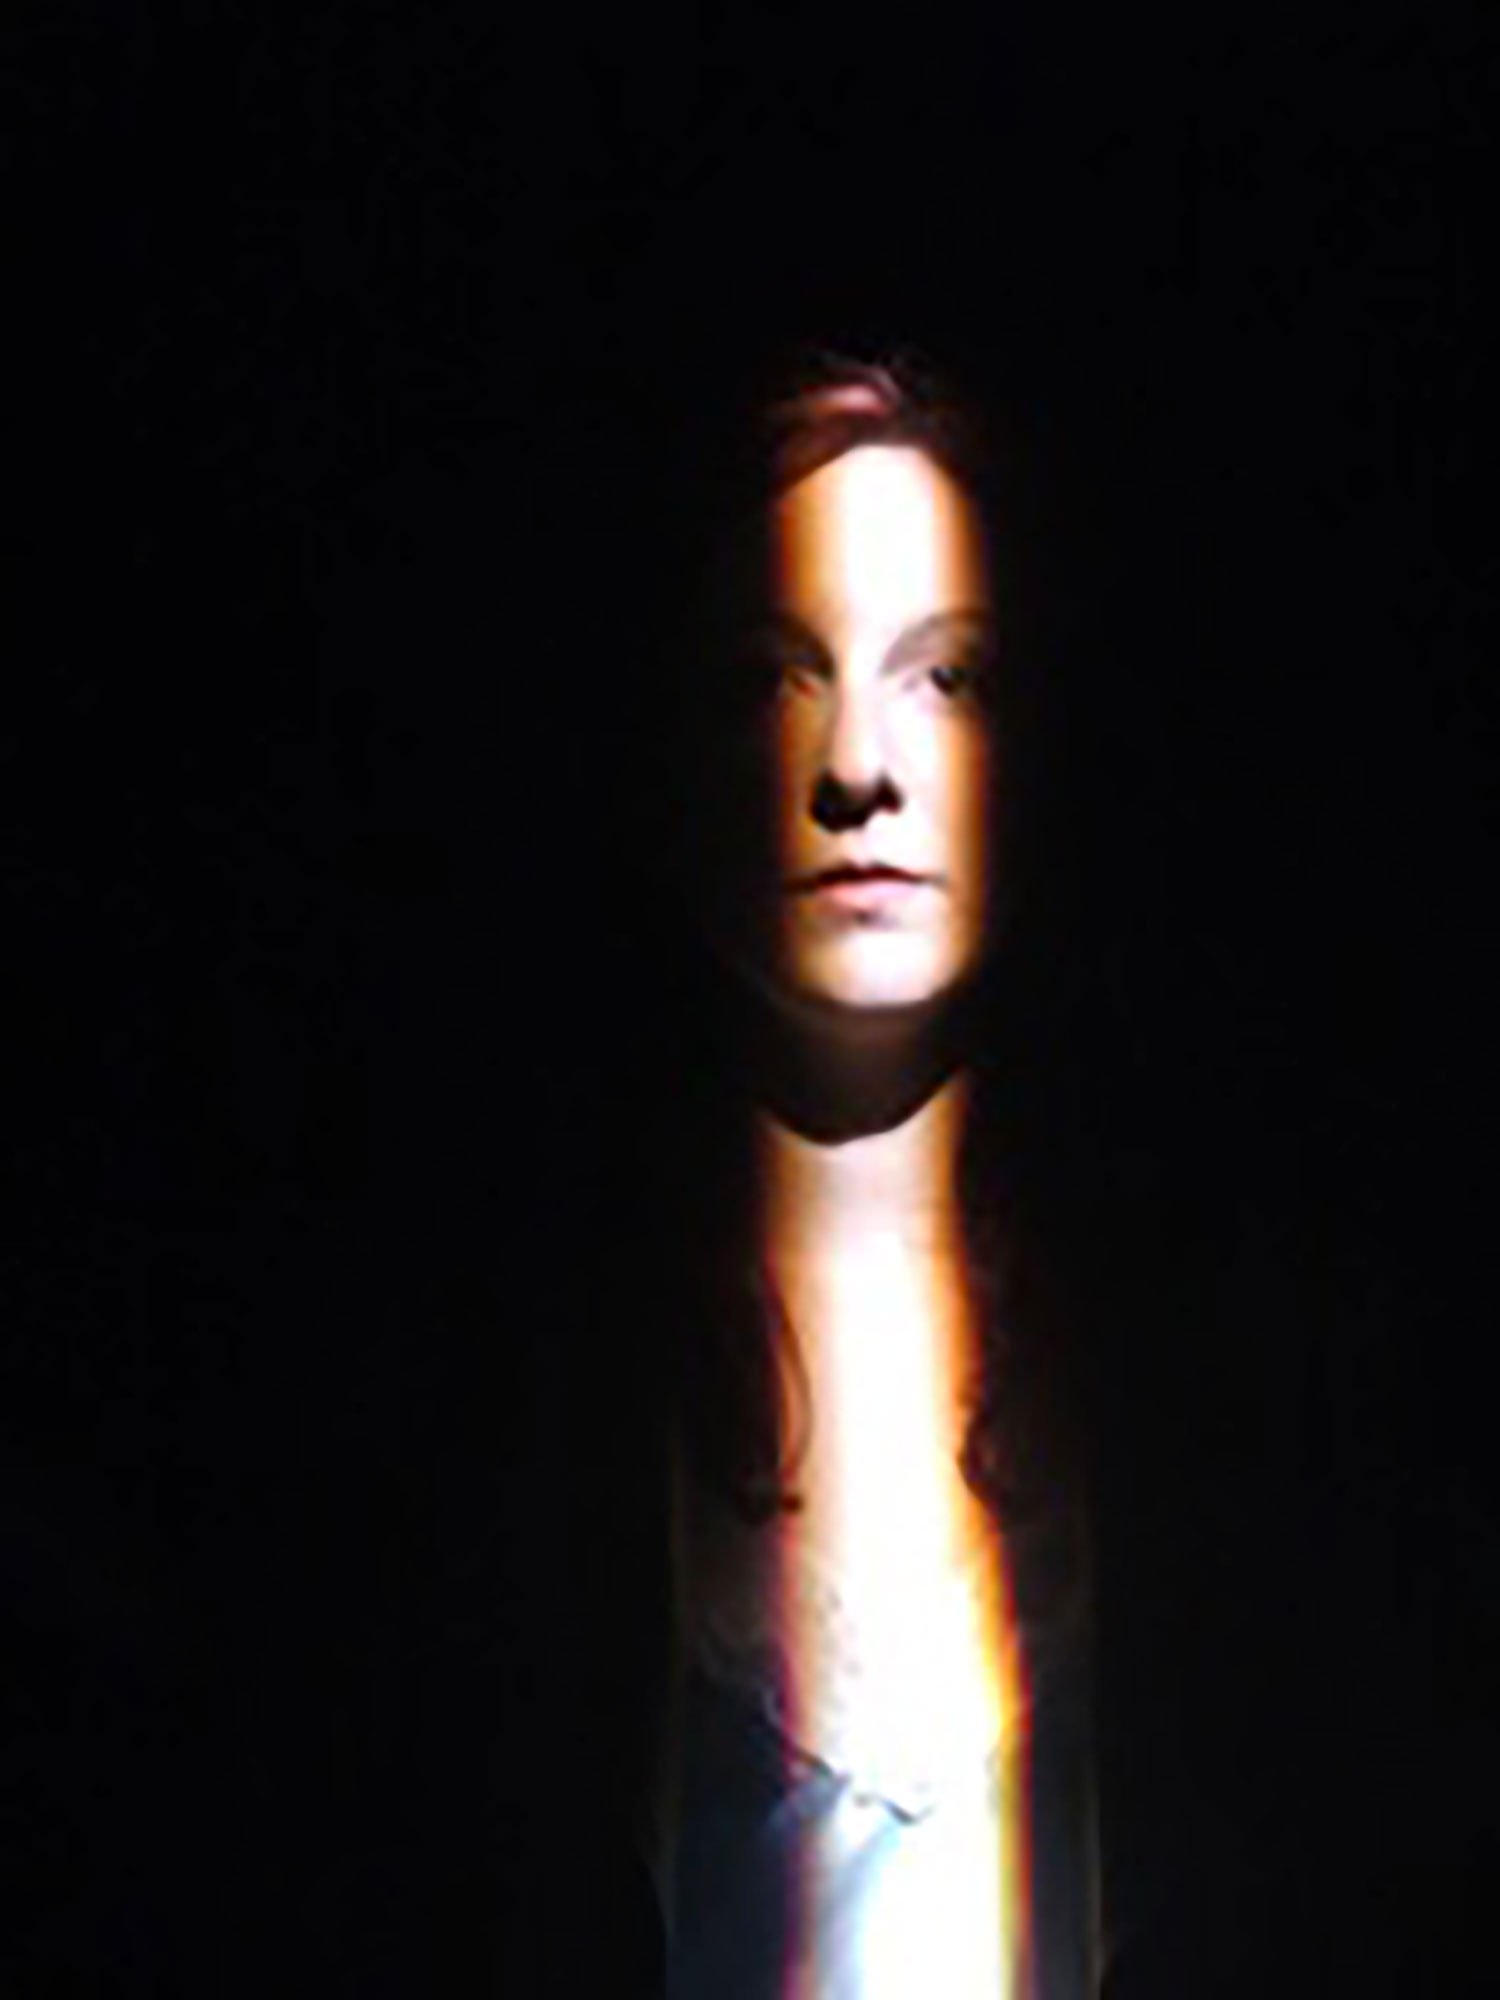
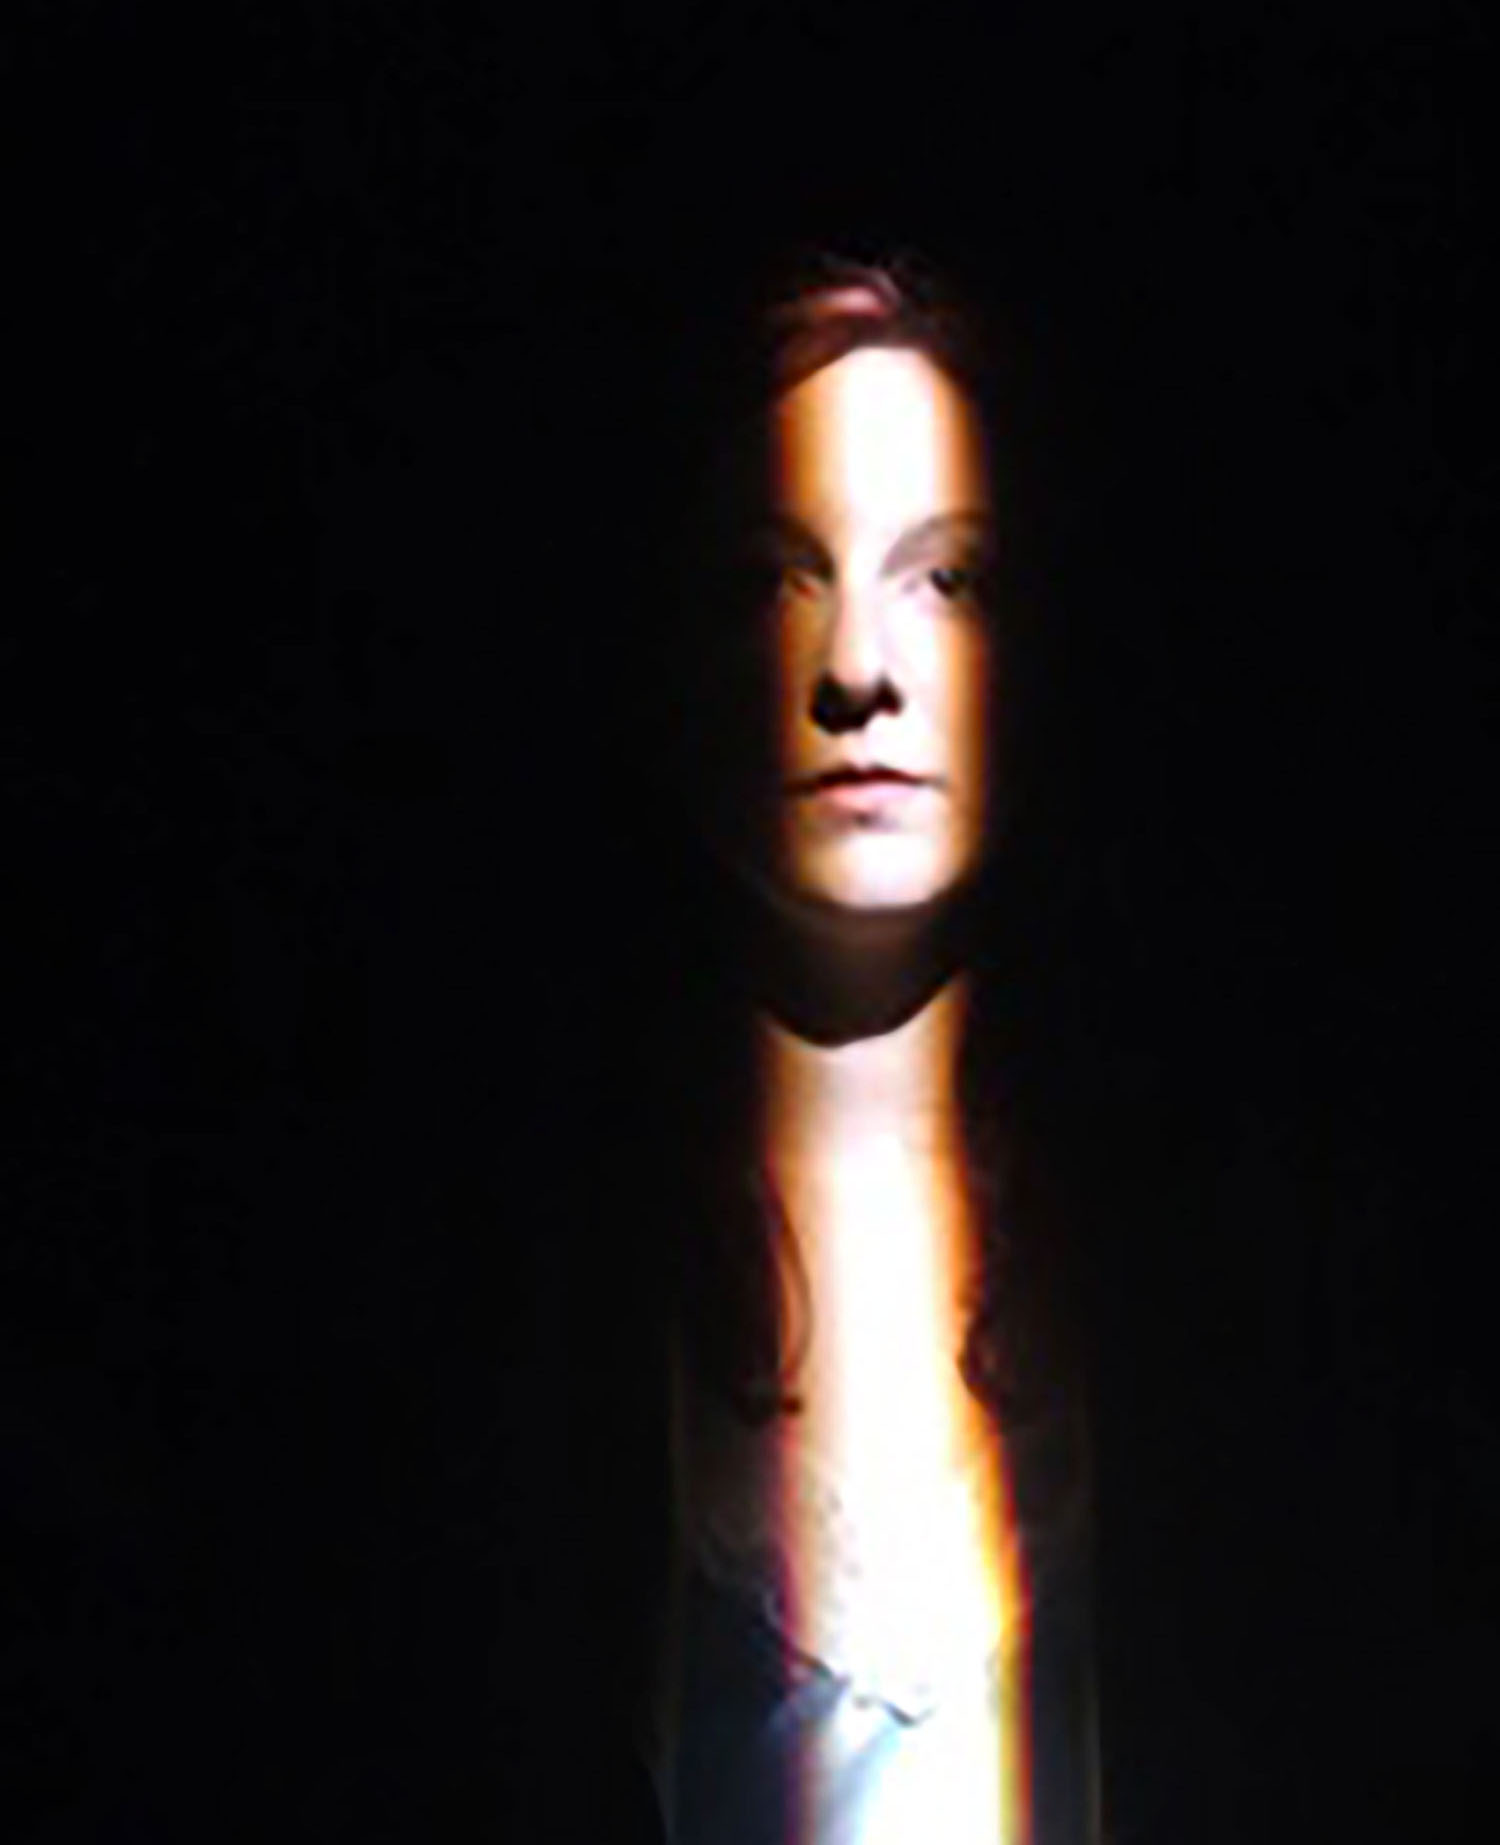
Resize foot photo in projects

diff --git a/index.html b/index.html
@@ -173,7 +173,7 @@
 
           <article>
             <figure>
-              <a href="https://youtu.be/RUF51mwXauM" target="_blank"><img src="img/foot1.jpg" alt="Foot Traffic Picture" /></a>
+              <a href="https://youtu.be/RUF51mwXauM" target="_blank"><img src="img/foot2.jpg" alt="Foot Traffic Picture" /></a>
             </figure>
             <a href="https://youtu.be/RUF51mwXauM" target="_blank"><h3>Foot Traffic</h3></a>
             <p>Platform Youth Theatre </p>
